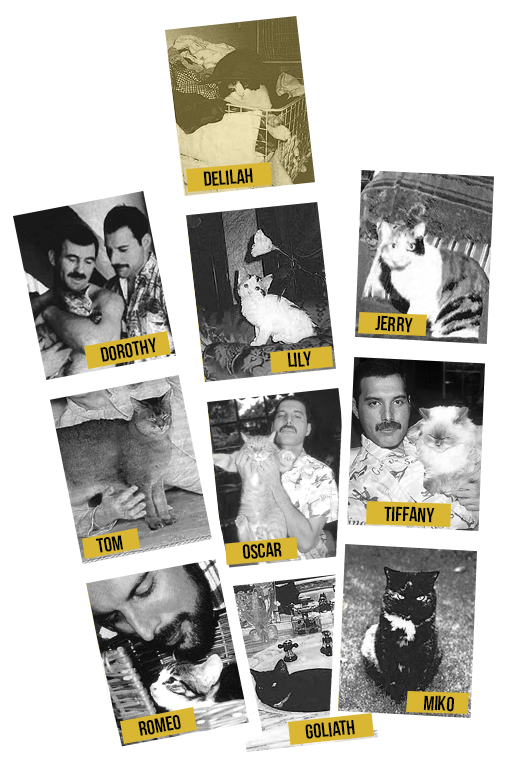
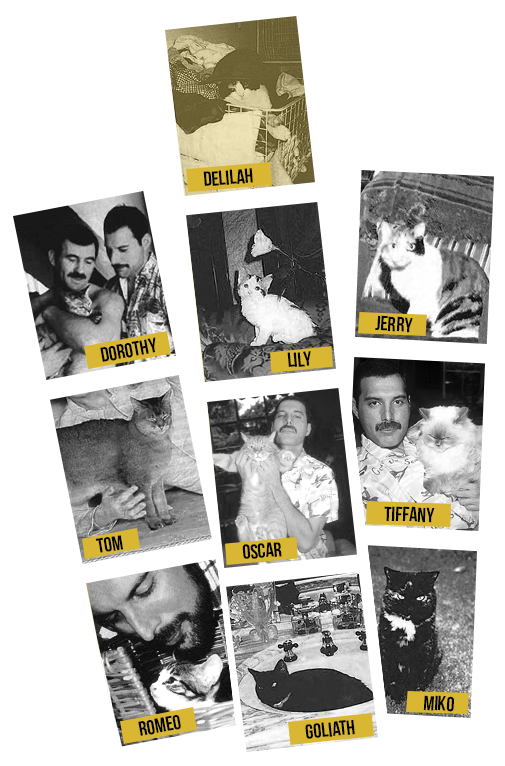
new css and corrected drinks

Changed region(s): [[0.6535, 0.5405, 0.7723, 0.9308], [0.4158, 0.6906, 0.5347, 0.9608]]

diff --git a/src/css/style.css b/src/css/style.css
@@ -196,7 +196,7 @@ p {
     display: flex;
     justify-content: center;
     align-items: flex-end;
-    padding-top: 7.5rem;
+    padding-top: 5.5rem;
     margin-right: 14.5rem;
   }
 
@@ -207,9 +207,8 @@ p {
   }
 
   &-img2 {
-    margin-top: 3.2rem;
-    position: absolute;
-    margin-left: 61.2rem;
+    margin-top: 16rem;
+    margin-left: -7rem;
   }
 
   & header {
@@ -257,7 +256,7 @@ p {
     flex-direction: column;
     align-items: center;
     margin-top: -.7rem;
-    margin-left: -12.7rem;
+    margin-left: -4.7rem;
   }
 
   & .drinks-insider {
